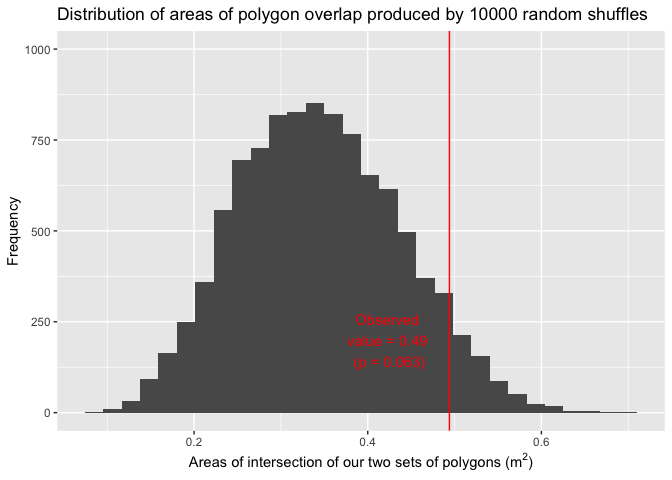
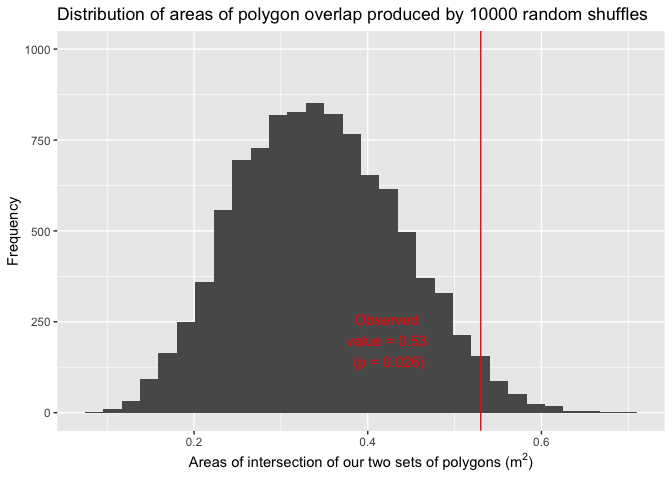
also needed to dissolve in compute_overlap_area_of_polygons_observed()

diff --git a/README.md b/README.md
@@ -115,14 +115,14 @@ observed_polygon_overlap <-
                                             other_polygons)
 ```
 
-The value we get here is 0.494 square meteres. We can combine this with
+The value we get here is 0.53 square meteres. We can combine this with
 our random distribution data to compute a p-value:
 
 ``` r
 pval <- 1 - sum(areas_of_overlap_from_random_shuffle$area <= observed_polygon_overlap) / n
 ```
 
-Using this p-vaue we can say that 6.28% of our randomly-shuffled input
+Using this p-vaue we can say that 2.59% of our randomly-shuffled input
 shapefiles result in an overlap with the other shapefiles that is equal
 to or greater than our observed overlap area. This indicates that our
 observed area of overlap is probably not random but a result of
